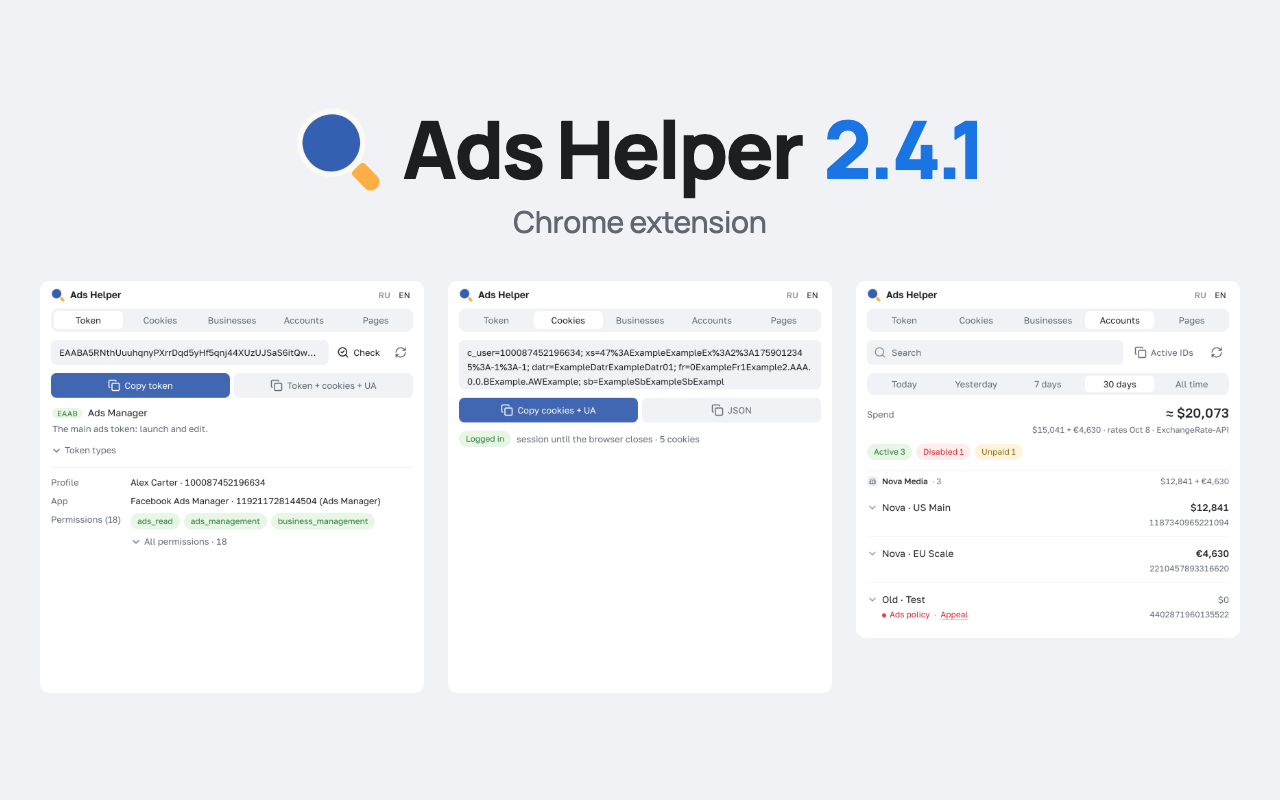
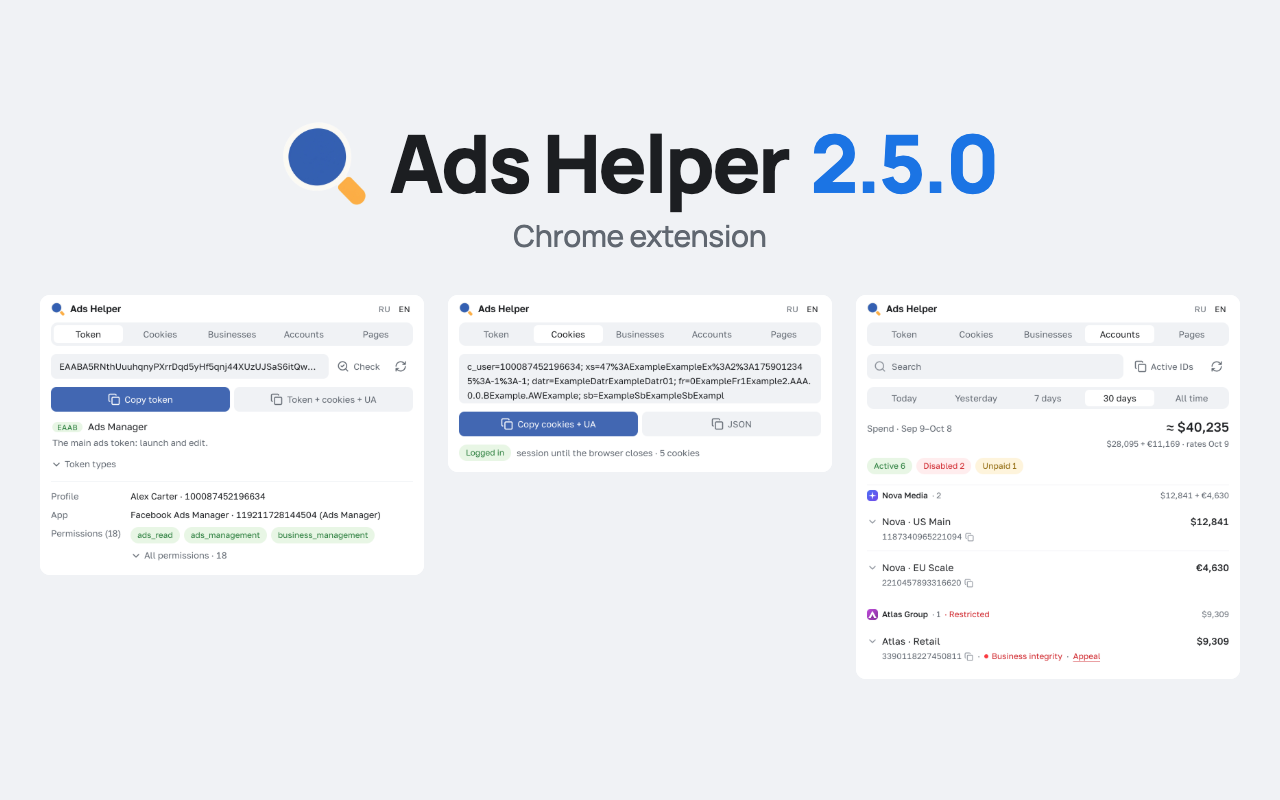
Store art for 2.5.0: Businesses and Pages captures, generated pictures, five screenshots per language
shots.mjs: fictional businesses (USD + EUR, one restricted through an owned account disabled with reason 6), their accounts, Pages (alive, dead, hidden, no access), and mocks for the business edges, the picture reads (?ids= for Pages and businesses), the Page picture redirect and the picture CDN (generated SVG tiles). One popup view per tab (Businesses, Accounts, Pages, Token, Cookies) = the five screenshots the Dashboard takes, EN and RU; lists are cut at the last whole row; stale outputs are removed by the run; console errors, failed and unmocked requests are listed at the end. docs/cover.png regenerated from the FB Helper build.

diff --git a/chrome-web-store/art/screen.html b/chrome-web-store/art/screen.html
@@ -27,8 +27,10 @@
 <script>
   const q = new URLSearchParams(location.hash.slice(1));
   document.documentElement.lang = q.get("lang") || "en";
-  document.getElementById("t").textContent = q.get("t") || "";
-  document.getElementById("s").textContent = q.get("s") || "";
+  // "User-Agent" is never broken at its hyphen
+  const put = (id, text) => { const n = document.getElementById(id); n.textContent = ""; text.split(/(User-Agent)/).forEach((part) => {
+    if (part === "User-Agent") n.append(Object.assign(document.createElement("span"), { textContent: part, style: "white-space: nowrap" })); else n.append(part); }); };
+  put("t", q.get("t") || ""); put("s", q.get("s") || "");
   document.getElementById("img").src = q.get("img") || "";
 </script>
 </html>

diff --git a/chrome-web-store/RELEASE_CHECKLIST.md b/chrome-web-store/RELEASE_CHECKLIST.md
@@ -55,7 +55,7 @@ The repo and GitHub stay **FB Helper** (`fb-helper/`). Only the store build is *
 |---|---|---|---|
 | Store icon | 128×128 PNG | yes | **Done:** `chrome-web-store/icons/icon_128.png` — 96×96 artwork inside 16 px transparent padding per side |
 | Extension icons in the package | 16, 32, 48, 128 PNG | yes | **Done** (built into the ZIP from `chrome-web-store/icons/`) |
-| Screenshots | 1280×800, JPEG or 24-bit PNG without alpha (as the Dashboard form states), 1 to 5 | at least 1 | **Four sets exist** (regenerated 2026-10-08 against the current UI, commit 426b6e2): English `chrome-web-store/art/out/screenshots/en/01-accounts … 04-cookies.png` (accounts, ads, token, cookies), Russian `…/screenshots/ru/…`, plus the overview `chrome-web-store/art/out/store-screenshot-1280x800.png` as an optional 5th (`cover.png` is 2100×1182 and is rejected by the form). **To do for 2.5.0:** there is no Businesses and no Pages screenshot yet: `shots.mjs` has no capture for them and its mock answers `me/accounts` and the business edges with empty lists |
+| Screenshots | 1280×800, JPEG or 24-bit PNG without alpha (as the Dashboard form states), 1 to 5 per language | at least 1 | **Done for 2.5.0** (regenerated 2026-10-10, fictional data, generated pictures): two sets of five, one popup view per tab: English `chrome-web-store/art/out/screenshots/en/01-businesses, 02-accounts, 03-pages, 04-token, 05-cookies.png`, Russian `…/screenshots/ru/…` (same names). The Dashboard takes five, so the Ads view of an opened account is not in the sets and the overview `chrome-web-store/art/out/store-screenshot-1280x800.png` (token, cookies, accounts side by side) is not a sixth: swap it in for one of the five if you want it (`cover.png` is 2100×1182 and is rejected by the form) |
 | Small promo tile | 440×280, JPEG or 24-bit PNG without alpha | yes | **Done:** `chrome-web-store/art/out/promo-tile-440x280.png` |
 | Marquee promo tile | 1400×560 | optional | Not made; needed only to be featured |
 | Global promo video | YouTube URL | optional in the Dashboard form | Skip |
@@ -92,6 +92,6 @@ Live checks (a real account, nothing here is covered by the mocks)
 - [ ] Tab order is Token · Cookies · Businesses · Accounts · Pages, and "BM" appears nowhere in the UI (EN "Businesses", RU "Бизнесы"; the copied block keeps its `BM:` line)
 
 Store
-- [ ] Regenerate the store art with the build of this version: `chrome-web-store/build.sh && node chrome-web-store/art/shots.mjs` (fictional data, no Facebook logo, no "FB Helper" name, no real pictures). Add the Businesses and Pages captures to `shots.mjs` first (see section 7); Russian and English
+- [x] Regenerate the store art with the build of this version: `chrome-web-store/build.sh && node chrome-web-store/art/shots.mjs` (fictional data, no Facebook logo, no "FB Helper" name, no real pictures); Russian and English. Done 2026-10-10 against 2.5.0: Businesses and Pages captures added to `shots.mjs`, `ART_DEV=1` run for `docs/cover.png`
 - [ ] Privacy policy URL in the form points to `PRIVACY_POLICY.md` on `main` (push to `main` first); the page carries the date 2026-10-08
 - [ ] Listing text (`STORE_LISTING.md`, English and Russian), single purpose, the four justifications, the CSP quote in "Remote code" and the data-usage answers pasted into the Dashboard; the summary equals the manifest's `description`
